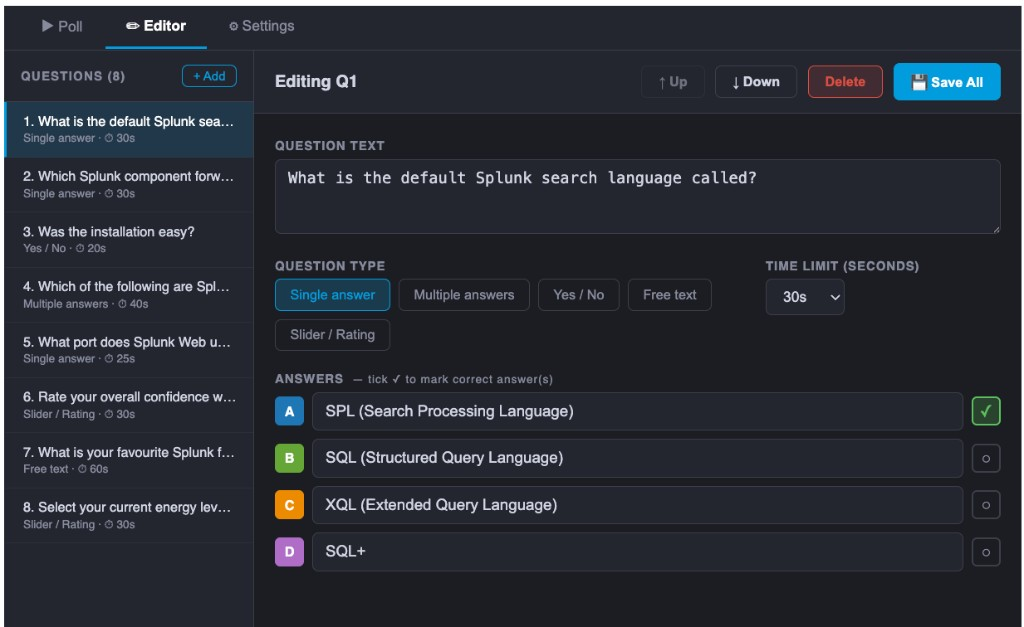
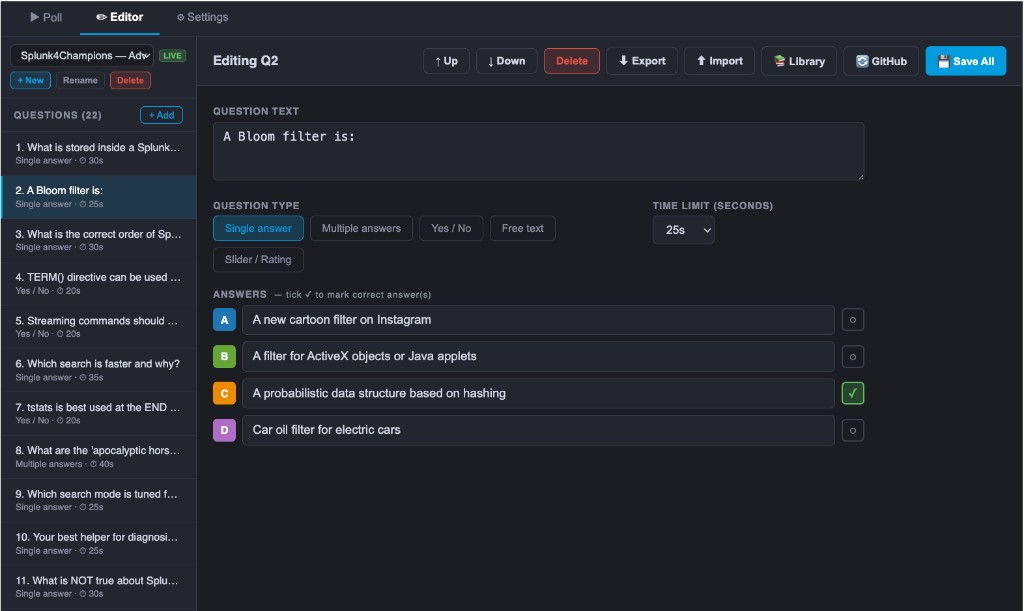
docs: add TL;DR section and four new screenshots to README

diff --git a/README.md b/README.md
@@ -1,16 +1,41 @@
 # Pony Poll — Interactive Quiz App for Splunk
 
-**Pony Poll** is a self-contained Splunk app that turns any Splunk instance into a live quiz and polling platform. Participants answer questions in real time through a React-powered web UI embedded directly inside Splunk. All responses are stored as Splunk events, so you can build search-driven leaderboards and dashboards on top of the data immediately.
-
 ![Pony Poll mascot](src/package/appserver/static/appIcon_128.png)
+
+> **v0.9.1** · Splunk Enterprise / Cloud ≥ 8.x · React 16 · KV Store · Python 3
+
+---
+
+## TL;DR
+
+**Pony Poll** turns any Splunk instance into a live Kahoot-style quiz — no extra infrastructure needed.
+
+```
+Install app → create questions in the Editor → share the Poll URL → watch answers flow into Splunk
+```
+
+| What | How |
+|---|---|
+| **Run a quiz** | Open the **Poll** tab, enter your nickname, hit Start |
+| **Build questions** | **Editor** tab — 5 types, drag to reorder, set time limits |
+| **Use ready-made quizzes** | **📚 Library** (bundled) or **🔄 GitHub** (live sync from this repo) |
+| **Share a quiz** | **Export** → JSON file; anyone can **Import** on another instance |
+| **Analyse results** | Every answer is a Splunk event: `index=ponypoll | stats sum(points) by nickname` |
+| **Install** | Upload `ponypollapp.tar.gz` in Splunk UI — done |
+
+**Requires:** Splunk Enterprise with a valid license (KV Store must be enabled).
 
 ---
 
 ## Screenshots
 
-| Poll view | Question editor |
-|---|---|
-| ![Poll view — question with answer options and live timer](docs/screenshots/poll.png) | ![Editor — WYSIWYG question editor with type selector](docs/screenshots/editor.png) |
+| Start screen | Live question | Answer revealed |
+|---|---|---|
+| ![Start — Buttercup mascot and nickname input](docs/screenshots/start.png) | ![Question — 4 choices and countdown timer](docs/screenshots/question.png) | ![Reveal — correct answer highlighted, points awarded](docs/screenshots/reveal.png) |
+
+**Editor**
+
+![Editor — quiz selector, question list, WYSIWYG form with type buttons and answer options](docs/screenshots/editor.png)
 
 ---
 